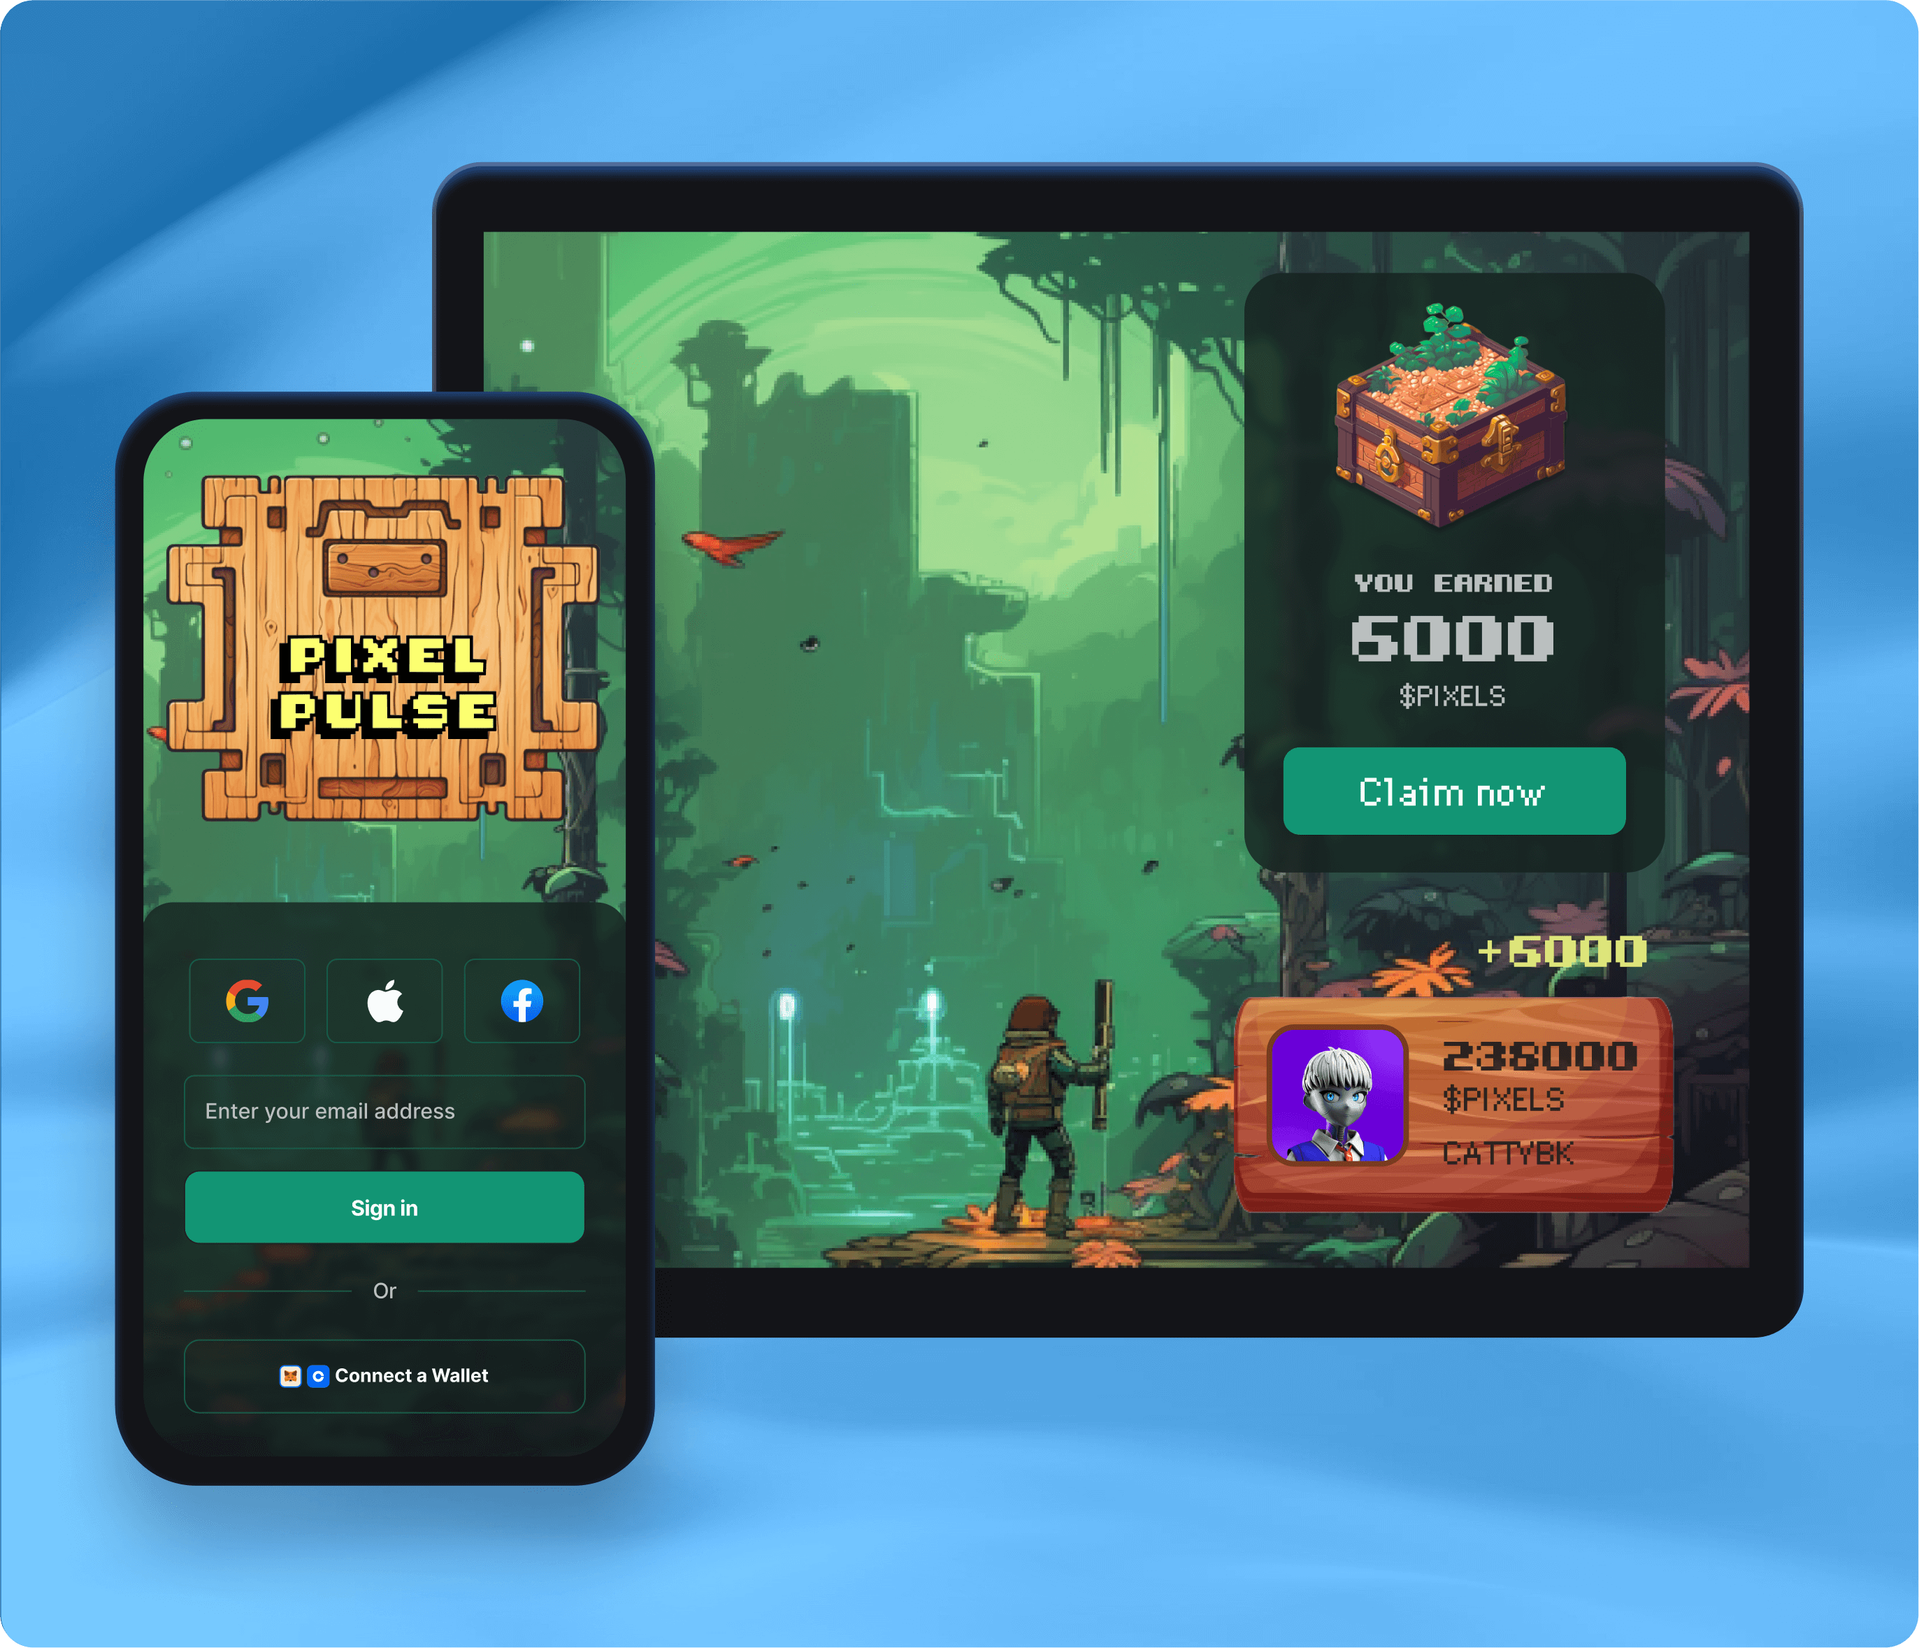
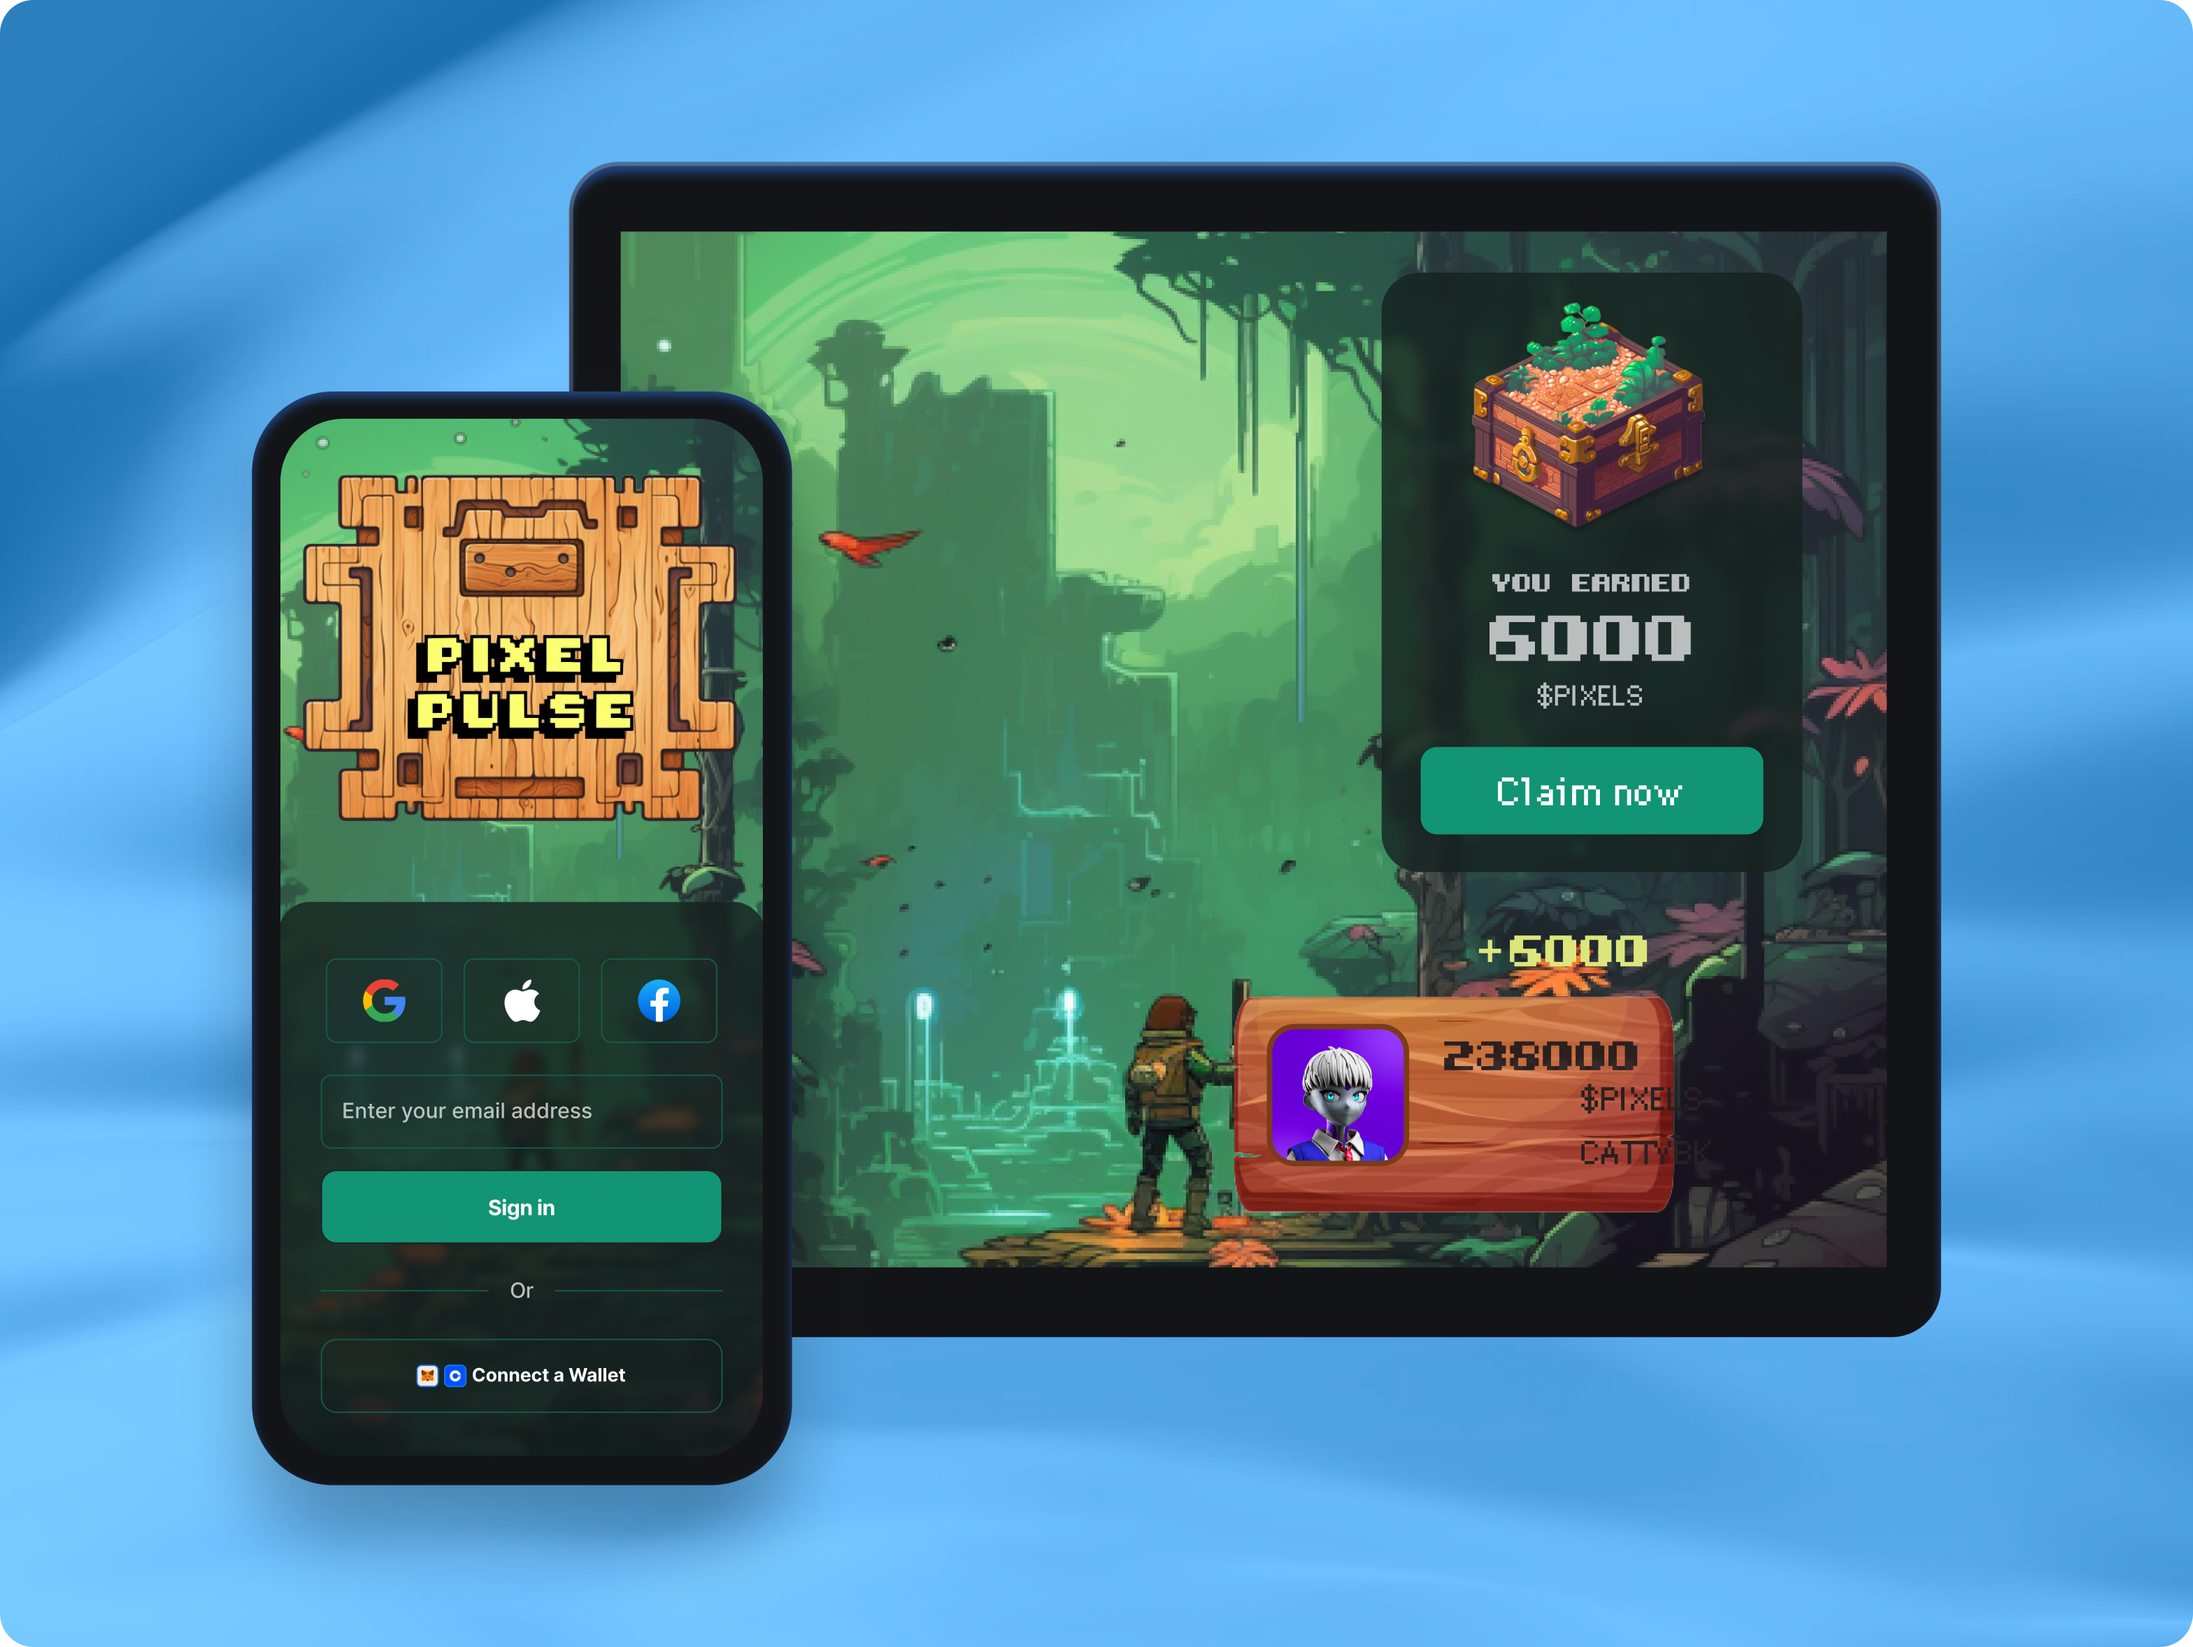
chore: replace connect images (#2464)
chore: replace images

diff --git a/src/components/connect/Carousel.tsx b/src/components/connect/Carousel.tsx
@@ -149,7 +149,7 @@ const Carousel = ({ TRACKING_CATEGORY }: { TRACKING_CATEGORY: string }) => {
           );
         })}
       </SimpleGrid>
-      <Flex width="full" maxW="686px">
+      <Flex width="full" maxW="786px">
         {showcaseImages.map((img, idx) => (
           <ChakraNextImage
             key={idx}
